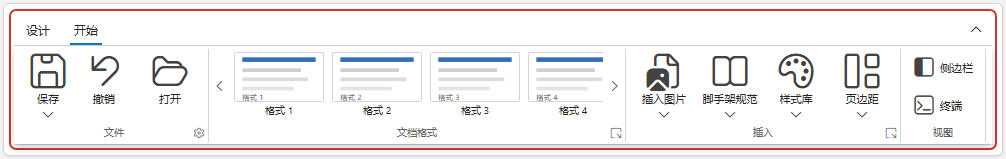
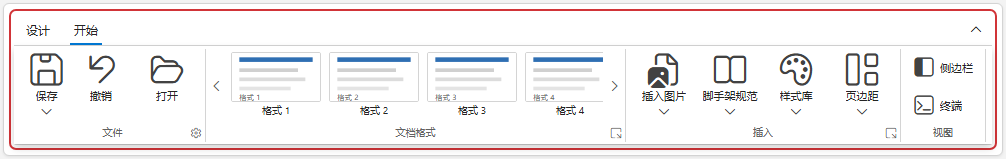
fix(ribbon): 统一全高按钮图标为按钮高度一半的正方形
- 默认 --vsc-ribbon-icon-size 改为 --vsc-ribbon-items-height 的一半：默认 74px 按钮对应 37px 图标，宽度与高度一致。
- 占满按钮高度的普通按钮、下拉按钮、分割按钮图标与折叠分组入口图标统一使用该尺寸。
- 分割按钮图标区按新图标高度重新计算，图标、标题、箭头仍与相邻整高下拉按钮对应行对齐。
- 按钮宽度保持现状：普通整高按钮约 64px，分割按钮继续按内容自适应。
- 补充图标尺寸/正方形断言，更新文档说明与功能区部件图鉴截图。

diff --git a/src/vscode-ribbon/vscode-ribbon.test.ts b/src/vscode-ribbon/vscode-ribbon.test.ts
@@ -854,10 +854,29 @@ describe('vscode-ribbon', () => {
     const splitRect = split.getBoundingClientRect();
     expect(splitRect.width).to.be.lessThan(64);
     expect(splitRect.width).to.be.greaterThan(30);
+    // 全高按钮图标统一为按钮高度一半的正方形。
+    const splitIconRect = primary
+      .querySelector('.ribbon-icon')!
+      .getBoundingClientRect();
+    expect(Math.round(splitIconRect.width)).to.equal(
+      Math.round(splitIconRect.height)
+    );
+    expect(Math.abs(splitIconRect.height * 2 - splitRect.height)).to.be.at.most(
+      1
+    );
     // 图标、标题与箭头分别与相邻整高下拉按钮的对应行水平对齐。
     const dropdown = el.shadowRoot!.querySelector<HTMLElement>(
       '.ribbon-item.is-dropdown.ribbon-item-vertical'
     )!;
+    const dropdownIconRect = dropdown
+      .querySelector('.ribbon-icon')!
+      .getBoundingClientRect();
+    expect(Math.round(dropdownIconRect.width)).to.equal(
+      Math.round(splitIconRect.width)
+    );
+    expect(Math.round(dropdownIconRect.height)).to.equal(
+      Math.round(splitIconRect.height)
+    );
     const rowDelta = (left: Element | null, right: Element | null) =>
       Math.abs(
         left!.getBoundingClientRect().top - right!.getBoundingClientRect().top
@@ -1283,8 +1302,14 @@ describe('vscode-ribbon', () => {
     const fullIcon = el.shadowRoot!.querySelector<HTMLElement>(
       '.ribbon-item-full .ribbon-icon'
     )!;
+    const itemsHeight = parseFloat(
+      getComputedStyle(el).getPropertyValue('--vsc-ribbon-items-height')
+    );
+    const halfSize = `${itemsHeight / 2}px`;
     const fullIconSize = getComputedStyle(fullIcon).fontSize;
-    expect(fullIconSize).to.equal('40px');
+    expect(fullIconSize).to.equal(halfSize);
+    expect(getComputedStyle(fullIcon).width).to.equal(halfSize);
+    expect(getComputedStyle(fullIcon).height).to.equal(halfSize);
 
     el.style.width = '120px';
     el.refreshLayout();
@@ -1298,7 +1323,7 @@ describe('vscode-ribbon', () => {
       '.ribbon-group.folded .ribbon-group-dropdown .ribbon-group-icon'
     )!;
     expect(getComputedStyle(groupIcon).fontSize).to.equal(fullIconSize);
-    expect(getComputedStyle(groupIcon).width).to.equal('40px');
+    expect(getComputedStyle(groupIcon).width).to.equal(halfSize);
   });
 
   it('折叠分组在弹层中保留自定义对话框启动器', async () => {

diff --git a/src/vscode-ribbon/vscode-ribbon.styles.ts b/src/vscode-ribbon/vscode-ribbon.styles.ts
@@ -7,7 +7,8 @@ const styles: CSSResultGroup = [
     :host {
       --vsc-ribbon-tabs-height: 32px;
       --vsc-ribbon-items-height: 74px;
-      --vsc-ribbon-icon-size: 40px;
+      /* 占满按钮高度的图标统一为按钮高度的一半，并保持正方形。 */
+      --vsc-ribbon-icon-size: calc(var(--vsc-ribbon-items-height) / 2);
       --vsc-ribbon-compact-icon-size: 22px;
       --vsc-ribbon-height: calc(
         var(--vsc-ribbon-tabs-height) + var(--vsc-ribbon-items-height) + 24px
@@ -585,10 +586,10 @@ const styles: CSSResultGroup = [
     }
 
     .ribbon-split.ribbon-item-vertical .ribbon-item-primary {
-      flex: 0 0 42px;
+      flex: 0 0 calc(var(--vsc-ribbon-items-height) / 2 + 2px);
       box-sizing: border-box;
       flex-direction: row;
-      align-items: center;
+      align-items: flex-start;
       justify-content: center;
       min-height: 0;
       padding: 2px 2px 0;
@@ -597,6 +598,8 @@ const styles: CSSResultGroup = [
     .ribbon-split.ribbon-item-vertical .ribbon-split-trigger {
       flex: 1 1 auto;
       box-sizing: border-box;
+      align-items: flex-start;
+      justify-content: center;
       min-height: 0;
       padding: 0 3px;
       border-top: 0;

diff --git a/docs/components/ribbon.md b/docs/components/ribbon.md
@@ -126,6 +126,10 @@ ArrowDown / ArrowUp 打开菜单并聚焦首项或末项。
 | `custom`  | `{html, css?, width?, height?}`  | 沙箱 iframe 中的静态内容            |
 | `footer`  | `VscRibbonItem[]`                | 面板底部操作区条目                  |
 
+占满按钮高度的整高按钮，其图标统一取按钮高度的一半并保持正方形：默认按钮高度
+`74px` 对应 `37px` 图标，可通过 `--vsc-ribbon-icon-size` 单独覆盖图标尺寸，或
+调整 `--vsc-ribbon-items-height` 同时改变按钮与图标高度。
+
 ## 响应式与折叠
 
 1. 在各分组内，把初始尺寸、样式及完整 `responsive` 链相同的按钮归为一批；
